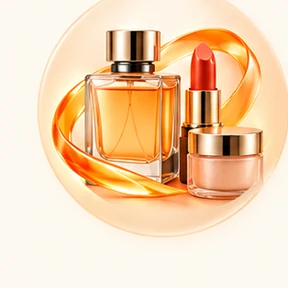
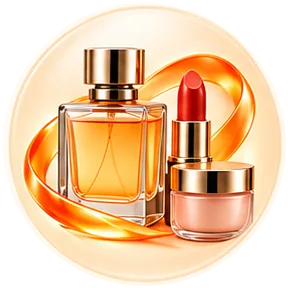
design: install 16 optically centered premium category illustrations

diff --git a/apps/web/src/app/page.tsx b/apps/web/src/app/page.tsx
@@ -527,7 +527,7 @@ async function renderHome(sp: HomeSearchParams) {
                 {/* eslint-disable-next-line @next/next/no-img-element */}
                 <img
                   className="premium-category-art"
-                  src={'/visual-refresh/premium/categories/' + categoryArt(cat) + '.webp'}
+                  src={'/visual-refresh/premium/categories/' + categoryArt(cat) + '.webp?v=20261020-centered'}
                   width={288}
                   height={288}
                   alt=""
